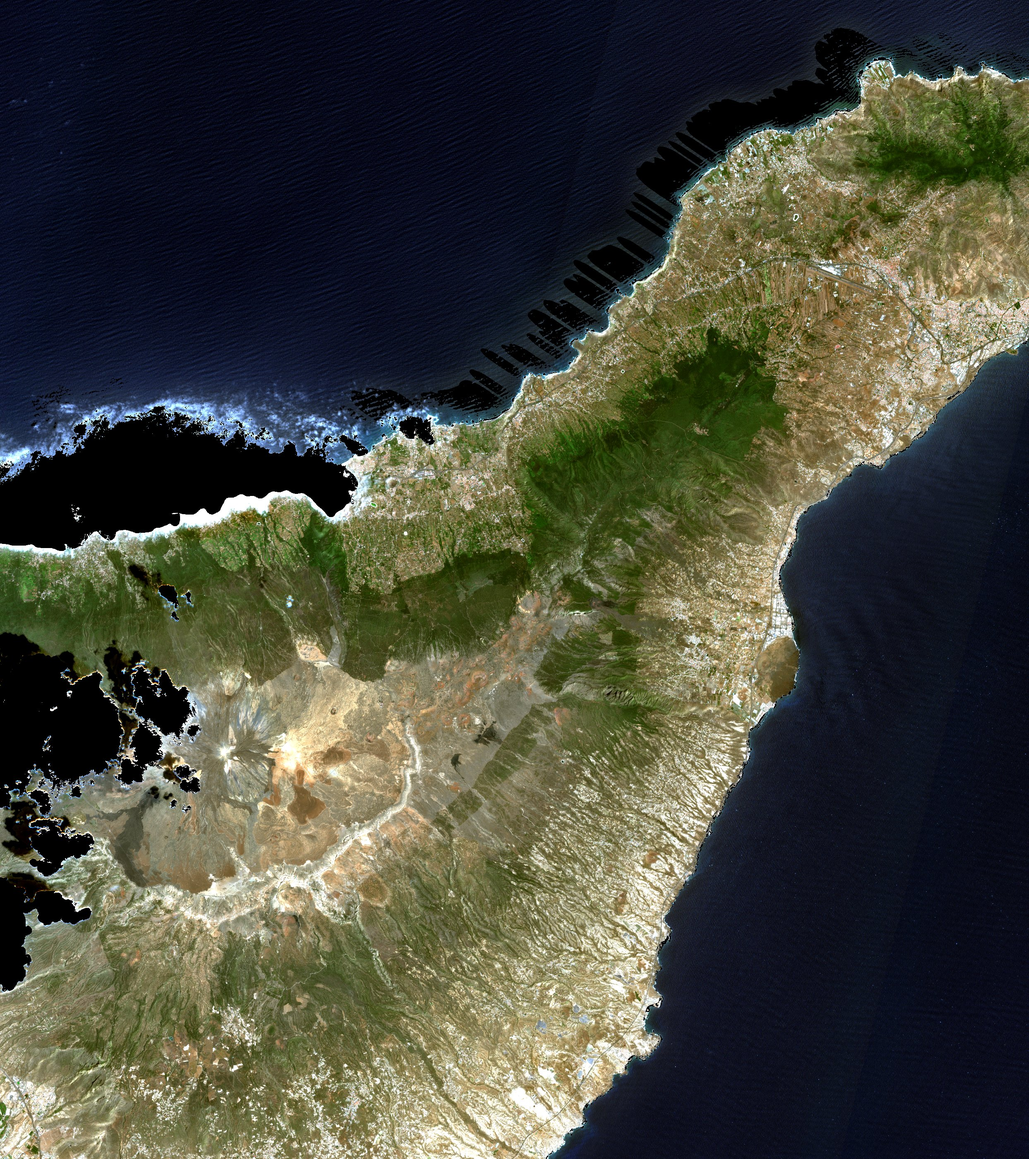
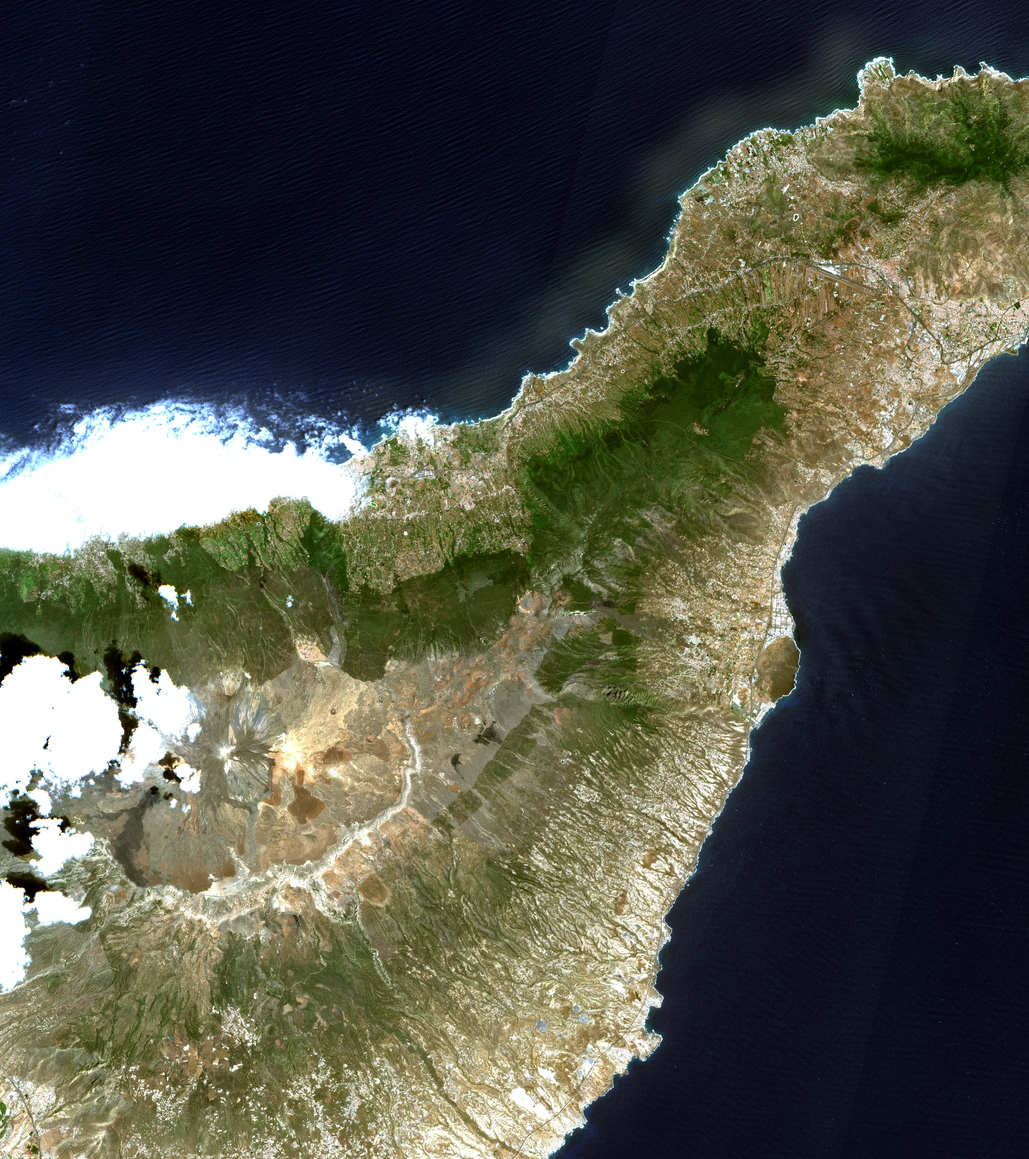
Fix: no tapar nubes/sombra en las imagenes antes/despues (issue #11)
Mismo problema que el del agua (commit anterior), pero con nubes: se
tapaban igual que el agua, dejando parches negros sobre el mar que un
usuario podia confundir con tierra o sombra real.

Sacar la mascara del todo trajo un segundo problema: el estiramiento de
contraste (percentiles 2-98) se calculaba sobre TODOS los pixeles, y las
nubes -mucho mas brillantes que cualquier terreno- corrian el punto
blanco de referencia hacia arriba, dejando todo el paisaje real oscuro.

Fix final: la mascara de nube/sombra/cirros (CLOUD_LIKE) ahora solo se
usa para EXCLUIR esos pixeles del calculo del percentil en to_rgba(),
nunca para ocultarlos de la imagen. Una nube real queda saturada en
blanco puro (como se ve de verdad), el paisaje mantiene su contraste
normal, y el agua (ya corregida antes) sigue con su color real.

Changed region(s): [[0.0, 0.0, 0.9292, 0.4968], [0.0, 0.5589, 0.2168, 0.8694], [0.1549, 0.4968, 0.1858, 0.5278]]

diff --git a/pipeline/export_truecolor.py b/pipeline/export_truecolor.py
@@ -21,20 +21,21 @@ from search_scenes import CATALOG_URL, best_scene
 RGB_BANDS = ["B04", "B03", "B02"]
 DATA_DIR = Path(__file__).resolve().parent.parent / "data"
 
-# Nubes/sombra/cirros, pero sin la clase 6 (agua): a diferencia de
-# load_bands.SCL_CLOUD_SHADOW_WATER (que sí la tapa, porque el agua rompe el
-# cálculo de NBR), acá se vio que el SCL clasifica "agua" de forma muy
-# inconsistente entre escenas (0.6% del cuadro en la escena de antes, 45.8%
-# en la de después — básicamente todo el océano en una sí y en la otra no),
-# lo que tapaba casi medio comparador de negro en una sola de las dos fotos.
-# Como esto es una imagen visual, no un insumo de NBR, mostrar el agua real
-# (aunque a veces tenga glint/ruido) es preferible a ese parche negro.
-RGB_CLOUD_SHADOW = [3, 8, 9, 10]
+# Sombra de nube, nube media/alta probabilidad, cirros: no se usan para
+# ocultar píxeles (eso fue el bug del agua y de las nubes negras — ver el
+# historial de este archivo), sino solo para EXCLUIRLOS del cálculo del
+# estiramiento de contraste en to_rgba(). Una nube es mucho más brillante
+# que cualquier terreno real; si entra en la cuenta del percentil 98, corre
+# el "blanco de referencia" tan arriba que todo el paisaje normal queda
+# aplastado y oscuro.
+CLOUD_LIKE = [3, 8, 9, 10]
 
 
-def load_true_color(item: Item) -> xr.DataArray:
-    """Carga B04/B03/B02 (rojo/verde/azul), recortadas al bbox, con nubes,
-    sombras y cirros en NaN (el agua se deja ver, ver RGB_CLOUD_SHADOW)."""
+def load_true_color(item: Item) -> tuple[xr.DataArray, xr.DataArray]:
+    """Carga B04/B03/B02 (rojo/verde/azul) y la máscara de nube/sombra/cirros
+    (ver CLOUD_LIKE), recortadas al bbox. Ningún píxel se oculta en la
+    imagen final — la máscara solo se usa para las estadísticas de
+    contraste en to_rgba()."""
     signed_item = planetary_computer.sign(item)
     stack = stackstac.stack(
         [signed_item],
@@ -43,20 +44,22 @@ def load_true_color(item: Item) -> xr.DataArray:
         epsg=EPSG,
         resolution=20,
     ).squeeze("time")
+    rgb = stack.sel(band=RGB_BANDS)
+    is_cloud_like = stack.sel(band="SCL").isin(CLOUD_LIKE)
+    return rgb, is_cloud_like
 
-    scl = stack.sel(band="SCL")
-    is_dirty = scl.isin(RGB_CLOUD_SHADOW)
-    return stack.sel(band=RGB_BANDS).where(~is_dirty)
 
-
-def to_rgba(rgb: xr.DataArray) -> np.ndarray:
-    """Convierte las 3 bandas crudas a una imagen RGBA 0-1: estiramiento de
-    contraste por banda (percentiles 2-98) y alpha=0 donde no hay dato."""
+def to_rgba(rgb: xr.DataArray, is_cloud_like: xr.DataArray) -> np.ndarray:
+    """Convierte las 3 bandas crudas a una imagen RGBA 0-1. El estiramiento
+    de contraste (percentiles 2-98) se calcula solo con los píxeles que no
+    son nube/sombra/cirros, pero se aplica a TODOS — una nube de verdad
+    termina saturada en blanco puro, que es como se ve en la realidad."""
     data = rgb.values  # (3, alto, ancho), orden R,G,B
+    clear = ~is_cloud_like.values  # (alto, ancho)
     stretched = np.empty_like(data, dtype="float64")
     for i in range(3):
         band = data[i]
-        low, high = np.nanpercentile(band, [2, 98])
+        low, high = np.nanpercentile(band[clear], [2, 98])
         stretched[i] = np.clip((band - low) / (high - low), 0, 1)
 
     alpha = np.where(np.isnan(data).any(axis=0), 0.0, 1.0)
@@ -75,7 +78,7 @@ def main() -> None:
         ("Antes", before_item, "rgb_before.png"),
         ("Después", after_item, "rgb_after.png"),
     ]:
-        rgba = to_rgba(load_true_color(item))
+        rgba = to_rgba(*load_true_color(item))
         output_path = DATA_DIR / filename
         plt.imsave(output_path, rgba, origin="upper")
         print(f"{label}: guardado en {output_path}")
